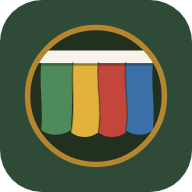
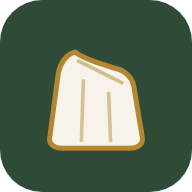
A toga in one colour, wearing today's
- The mark is now a single draped toga, not a roundel of cloth folds: --day fills it and a
  deep version keylines it, so the logo becomes the colour of the day
- New --day-deep: --day-ink falls back to the house green for greys and whites, which would
  have put a green keyline round a white toga. The mark needs its own deep value, so an
  achromatic day stays achromatic and the toga stays one colour
- Wordmark narrower and taller. Measured: no classic serif is meaningfully narrower than
  another (the field sits within 2% on width/height), so it comes from condensing the
  letterforms: EB Garamond 700, 48px, scaleX(0.80) — 14% narrower than a natural setting.
  700 because condensing thins the vertical stems
- Inlined subset regenerated at 700
- Icons rasterised from the toga
- Suite 48 -> 51: guards the mark's single-colour promise (achromatic day => achromatic
  keyline), that the keyline clears 3:1 on every day's paper, and the condensation

diff --git a/index.html b/index.html
@@ -25,8 +25,8 @@
      four letters. The rest of the page still loads EB Garamond normally. */
   @font-face {
     font-family: "Toga Mark";
-    font-style: normal; font-weight: 600; font-display: swap;
[1 lines of base64/hex data omitted]
+    font-style: normal; font-weight: 700; font-display: swap;
[1 lines of base64/hex data omitted]
   }
   :root {
     --paper: #f7f3ea;
@@ -47,6 +47,9 @@
        re-derived daily too: the page itself takes on a light tint of the day. */
     --day: #2f4a36;
     --day-ink: #2f4a36;
+    /* A deep version of the day for the mark's keyline. Unlike --day-ink this never falls back
+       to the house green, so an achromatic day stays achromatic and the toga stays one colour. */
+    --day-deep: #22301f;
     --day-rgb: 47, 74, 54;
   }
   body[data-season="winter"] { --tint-a: rgba(94, 132, 190, 0.20); --tint-b: rgba(142, 99, 196, 0.12); }
@@ -83,11 +86,16 @@
      capital T and a lowercase rest reads unmistakably as the word. The double hairline above
      is the bookplate device. */
   .logo { display: flex; align-items: center; gap: 15px; min-width: 0; }
-  .logo .mark { width: 50px; height: 50px; flex-shrink: 0; }
+  .logo .mark { width: 46px; height: 46px; flex-shrink: 0; }
+  /* Narrow and tall. Measured: no classic serif is meaningfully narrower than another — the
+     whole field sits within 2% of the same width/height ratio — so the proportions come from
+     condensing the letterforms, which buys 14%. 700 rather than 600 because condensing also
+     thins the vertical stems, and the heavier weight puts the optical colour back. */
   .wordmark {
     font-family: "Toga Mark", "EB Garamond", Georgia, serif;
-    font-size: 41px; font-weight: 600; letter-spacing: 0.2px; line-height: 1;
+    font-size: 48px; font-weight: 700; letter-spacing: 0.1px; line-height: 1;
     color: var(--green); display: inline-block; margin: 0;
+    transform: scaleX(0.80); transform-origin: left center;
   }
   /* inline-block so the rule measures the NAME, not the type block — otherwise it stretches
      to the tagline's width and reads as a header divider instead of a caption. */
@@ -100,7 +108,7 @@
   .tagline-hdr { font-size: 11.5px; color: var(--muted); margin-top: 6px; letter-spacing: 0.2px; }
   .tagline-hdr .sep { color: var(--gold); margin: 0 4px; }
   @media (max-width: 520px) {
-    .wordmark { font-size: 34px; letter-spacing: 0.2px; }
+    .wordmark { font-size: 39px; letter-spacing: 0.1px; }
     .logo .mark { width: 42px; height: 42px; }
     .logo { gap: 12px; }
     .wordmark::before { height: 3px; margin-bottom: 6px; border-top-width: 1.5px; }
@@ -147,7 +155,7 @@
   .loc-current .muted { color: var(--muted); font-weight: 400; }
   .welcome-card { text-align: center; padding-top: 22px; }
   .welcome-card .mark-lg { width: 72px; height: 72px; margin-bottom: 10px; filter: drop-shadow(0 4px 12px rgba(34,48,31,0.25)); }
-  .welcome-card .wordmark { font-size: 34px; display: inline-block; margin: 0; }
+  .welcome-card .wordmark { font-size: 40px; display: inline-block; margin: 0; transform-origin: center center; }
   .welcome-lead { font-family: "EB Garamond", Georgia, serif; font-style: italic; font-size: 15px; color: var(--ink); margin: 6px 0 12px; }
   .welcome-joined:empty { display: none; }
   .welcome-joined { color: var(--green); font-weight: 600; }
@@ -365,7 +373,7 @@
   .mcell.themed { border-style: double; border-width: 3px; padding: 1px; }
 
   footer { text-align: center; color: var(--muted); font-size: 11px; margin-top: 18px; padding: 0 20px; }
-  footer .brand { font-family: "Toga Mark", "EB Garamond", Georgia, serif; font-size: 19px; font-weight: 600; letter-spacing: 0.3px; color: var(--green); margin: 6px 0 2px; }
+  footer .brand { font-family: "Toga Mark", "EB Garamond", Georgia, serif; font-size: 22px; font-weight: 700; letter-spacing: 0.1px; color: var(--green); margin: 6px 0 2px; transform: scaleX(0.80); transform-origin: center center; }
   footer .fine { font-size: 10.5px; letter-spacing: 1px; }
   footer .mark-sm { width: 30px; height: 30px; opacity: 0.9; }
 </style>
@@ -377,26 +385,15 @@
      and rasterized for the app icon. -->
 <svg width="0" height="0" style="position:absolute" aria-hidden="true">
   <defs>
-    <clipPath id="roundel"><circle cx="32" cy="32" r="29"/></clipPath>
     <symbol id="toga-mark" viewBox="0 0 64 64">
-      <circle cx="32" cy="32" r="30" fill="#22301f"/>
-      <g clip-path="url(#roundel)">
-        <!-- Cloth hanging from a gathered rail: uneven fold widths, a wave-cut hem. Equal
-             saturated wedges filling a circle read as a beach ball, and the knot at the top
-             read as its valve — the rail is what fixes that. -->
-        <path d="M8 17 C7 27 9 38 8 47 Q14 51 21 47 C22 37 21 27 22 17 Z" fill="#4E8A5A"/>
-        <path d="M22 17 C21 27 23 38 21 48 Q27 52 33 48 C35 37 32 27 33 17 Z" fill="#E3B23C"/>
-        <path d="M33 17 C32 27 35 39 33 48 Q39 52 45 48 C47 37 44 27 45 17 Z" fill="#C4453A"/>
-        <path d="M45 17 C44 27 47 38 45 47 Q51 51 57 47 C58 37 56 27 57 17 Z" fill="#3A6FA8"/>
-        <!-- the rail the cloth is folded over -->
-        <path d="M4 12 L60 12 L60 17.5 L4 17.5 Z" fill="#f7f3ea"/>
-        <path d="M4 18.2 L60 18.2" stroke="#22301f" stroke-width="1" opacity="0.4" fill="none"/>
-        <!-- creases between folds — flat and woodcut-like, no spherical shading -->
-        <path d="M22 17 C21 27 23 38 21 48 M33 17 C32 27 35 39 33 48 M45 17 C44 27 47 38 45 47" stroke="#22301f" stroke-width="0.8" opacity="0.32" fill="none"/>
-      </g>
-      <!-- one gold ring. A finer second ring inside looked like a stray reflection: cream read
-           over the dark disc but vanished over the cloth, so only arcs showed. -->
-      <circle cx="32" cy="32" r="30" fill="none" stroke="#b3862f" stroke-width="2.4"/>
+      <!-- A toga in ONE colour, and that colour is today's: --day fills it, --day-ink keylines
+           it so it can never vanish on a pale day (a white toga on cream is an outline drawing,
+           not an invisible one). The diagonal neckline is what makes it a toga and not a tunic
+           — cloth thrown over one shoulder. -->
+      <path d="M22 11 C18 12 15 16 14 21 L10 51 C9 55 12 57 16 57 L48 57 C52 57 55 55 54 51 L50 27 C49 23 46 20 42 19 C36 17 27 15 22 11 Z"
+            fill="var(--day)" stroke="var(--day-deep)" stroke-width="2.4" stroke-linejoin="round"/>
+      <path d="M23 15 L45 26" stroke="var(--day-deep)" stroke-width="1.7" opacity="0.5" fill="none"/>
+      <path d="M26 24 L25 54 M38 30 L39 54" stroke="var(--day-deep)" stroke-width="1.7" opacity="0.45" fill="none"/>
     </symbol>
   </defs>
 </svg>
@@ -1092,11 +1089,12 @@ function contrastText(hex) {
 }
 //  A deep, readable version of a color for headings: pull lightness down to ~28%,
 //  keep the hue, cap saturation so neon-ish colors don't vibrate against cream.
-//  Near-greys/whites fall back to the house green so headings never go muddy.
-function inkOf(hex) {
+//  Near-greys/whites fall back to the house green so headings never go muddy. `noHue` overrides
+//  that for the mark, which must stay one colour: a green keyline around a white toga is two.
+function inkOf(hex, noHue) {
   let [r, g, b] = hexRGB(hex).map(v => v / 255);
   const max = Math.max(r, g, b), min = Math.min(r, g, b), l = (max + min) / 2, d = max - min;
-  if (d < 0.08) return "#2f4a36";
+  if (d < 0.08) return noHue || "#2f4a36";
   let h = max === r ? ((g - b) / d) % 6 : max === g ? (b - r) / d + 2 : (r - g) / d + 4;
   h = (h * 60 + 360) % 360;
   const s = Math.min(0.55, d / (1 - Math.abs(2 * l - 1)));
@@ -1135,6 +1133,7 @@ function paintPage(hex) {
   root.setProperty("--muted", toHex(muted));
   root.setProperty("--day", hex);
   root.setProperty("--day-ink", inkOf(hex));
+  root.setProperty("--day-deep", inkOf(hex, "#46494c"));
   root.setProperty("--day-rgb", rgb.join(", "));
   const tc = document.querySelector('meta[name="theme-color"]'); if (tc) tc.content = toHex(paper);
 }

diff --git a/test.html b/test.html
@@ -232,7 +232,7 @@ function run() {
     ok(wm, "no wordmark in the page");
     const fam = app.getComputedStyle(wm).fontFamily;
     ok(/Toga Mark/.test(fam), "wordmark is not using the inlined face: " + fam);
-    ok(app.document.fonts.check('600 41px "Toga Mark"'), "the inlined face did not load");
+    ok(app.document.fonts.check('700 46px "Toga Mark"'), "the inlined face did not load");
   });
   test("the wordmark is title case — not caps, not small caps", () => {
     // caps of any kind read as initials, and TOGA is an anagram of GOAT
@@ -240,6 +240,14 @@ function run() {
     eq(cs.textTransform, "none", "a text-transform is making the name read as initials");
     eq(cs.fontVariantCaps, "normal", "small caps still reads as initials");
     eq(doc.querySelector(".wordmark").textContent.trim(), "Toga", 'the name should be exactly "Toga"');
+  });
+  test("the wordmark is narrower than it is naturally set", () => {
+    // no classic serif is meaningfully narrower than another, so the proportions come from
+    // condensing the letterforms. If this drops back to 1, the mark has lost its shape.
+    const wm = doc.querySelector(".wordmark");
+    const m = new DOMMatrixReadOnly(app.getComputedStyle(wm).transform);
+    ok(m.a < 0.9 && m.a > 0.6, "wordmark condensation is " + m.a.toFixed(2) + ", expected ~0.80");
+    ok(Math.abs(m.d - 1) < 0.01, "the wordmark is being squashed vertically too");
   });
   test("the wordmark font is embedded, not fetched", () => {
     const css = [...doc.querySelectorAll("style")].map(s => s.textContent).join("");
@@ -250,19 +258,50 @@ function run() {
     const wm = doc.querySelector(".wordmark");
     const rule = app.getComputedStyle(wm, "::before");
     eq(rule.display, "block", "the rule should be a block");
-    near(parseFloat(rule.width), wm.getBoundingClientRect().width, 1.5, "rule width vs wordmark width");
+    // compare layout widths: the rect is post-transform, the two scale together
+    near(parseFloat(rule.width), wm.offsetWidth, 1.5, "rule width vs wordmark layout width");
   });
   test("the mark appears in the header, footer and welcome card", () => {
     for (const sel of ["header .mark", "footer .mark-sm", ".welcome-card .mark-lg"])
       ok(doc.querySelector(sel), "missing the mark at " + sel);
   });
-  test("the mark is drawn flat — no leftover 3D shading", () => {
-    const sym = doc.getElementById("toga-mark");
-    ok(sym, "the symbol is gone");
-    const svg = sym.innerHTML;
-    ok(!/<ellipse/.test(svg), "the shading ellipses are back — it will read as a ball again");
-    ok(!/url\(#fold\)/.test(svg), "the cylinder gradient is back");
-    ok(/<path[^>]*fill="#f7f3ea"/.test(svg), "the rail that makes it read as cloth is gone");
+  test("the mark is a single colour drawn from the day", () => {
+    // the whole point: one toga, wearing today's colour, so the brand is never a rainbow
+    const svg = doc.getElementById("toga-mark").innerHTML;
+    ok(/fill="var\(--day\)"/.test(svg), "the mark is not filled with the day's colour");
+    ok(/stroke="var\(--day-deep\)"/.test(svg), "the mark is not keylined in the deep day colour");
+    const colours = svg.match(/#[0-9a-fA-F]{6}/g) || [];
+    eq(colours.length, 0, "the mark hard-codes colours instead of following the day: " + colours.join(", "));
+    ok(!/url\(#/.test(svg) && !/<ellipse/.test(svg) && !/<g /.test(svg),
+       "the mark has picked up gradients, shading or grouping again");
+  });
+  test("the mark's keyline is the same colour as the day, never the house green", () => {
+    // --day-ink falls back to green for greys and whites, which would put a green keyline round
+    // a white toga — two colours. For an achromatic day the keyline must be achromatic too.
+    const chroma = h => { const v = A.hexRGB(h); return (Math.max(...v) - Math.min(...v)) / 255; };
+    let worst = null;
+    for (const c of A.PALETTE) {
+      if (chroma(c.hex) >= 0.08) continue;                  // only the achromatic days are at risk
+      A.paintPage(c.hex);
+      const deep = app.getComputedStyle(doc.documentElement).getPropertyValue("--day-deep").trim();
+      if (chroma(deep) >= 0.08) worst = c.label + " keylined " + deep;
+    }
+    A.renderAll();
+    eq(worst, null, "an achromatic day picked up a colourful keyline: " + worst);
+  });
+  test("the mark's keyline stays visible on every day's paper", () => {
+    // a white toga on cream is an outline drawing — but only if the keyline actually reads
+    const lum = h => { const [r, g, b] = A.hexRGB(h).map(v => { v /= 255; return v <= 0.03928 ? v / 12.92 : Math.pow((v + 0.055) / 1.055, 2.4); }); return 0.2126 * r + 0.7152 * g + 0.0722 * b; };
+    const ratio = (a, b) => { const [x, y] = [lum(a), lum(b)].sort((p, q) => q - p); return (x + 0.05) / (y + 0.05); };
+    let worst = 99, at = "";
+    for (const c of A.PALETTE) {
+      A.paintPage(c.hex);
+      const cs = app.getComputedStyle(doc.documentElement);
+      const r = ratio(cs.getPropertyValue("--day-deep").trim(), cs.getPropertyValue("--paper").trim());
+      if (r < worst) { worst = r; at = c.label; }
+    }
+    A.renderAll();
+    ok(worst >= 3, "the mark's outline only reaches " + worst.toFixed(2) + ":1 on a " + at + " day");
   });
 
   // ---------------------------------------------------------------- readability

diff --git a/sw.js b/sw.js
@@ -1,7 +1,7 @@
 // Toga service worker — the page is pure date-math, so it works fully offline.
 // Strategy: precache the shell; network-first for same-origin (so updates land),
 // falling back to cache when offline. Weather API calls are never cached.
-const VERSION = "toga-v15";
+const VERSION = "toga-v16";
 const SHELL = ["./", "./index.html", "./regions.js", "./manifest.webmanifest", "./icon-192.png", "./icon-512.png"];
 
 self.addEventListener("install", e => {
